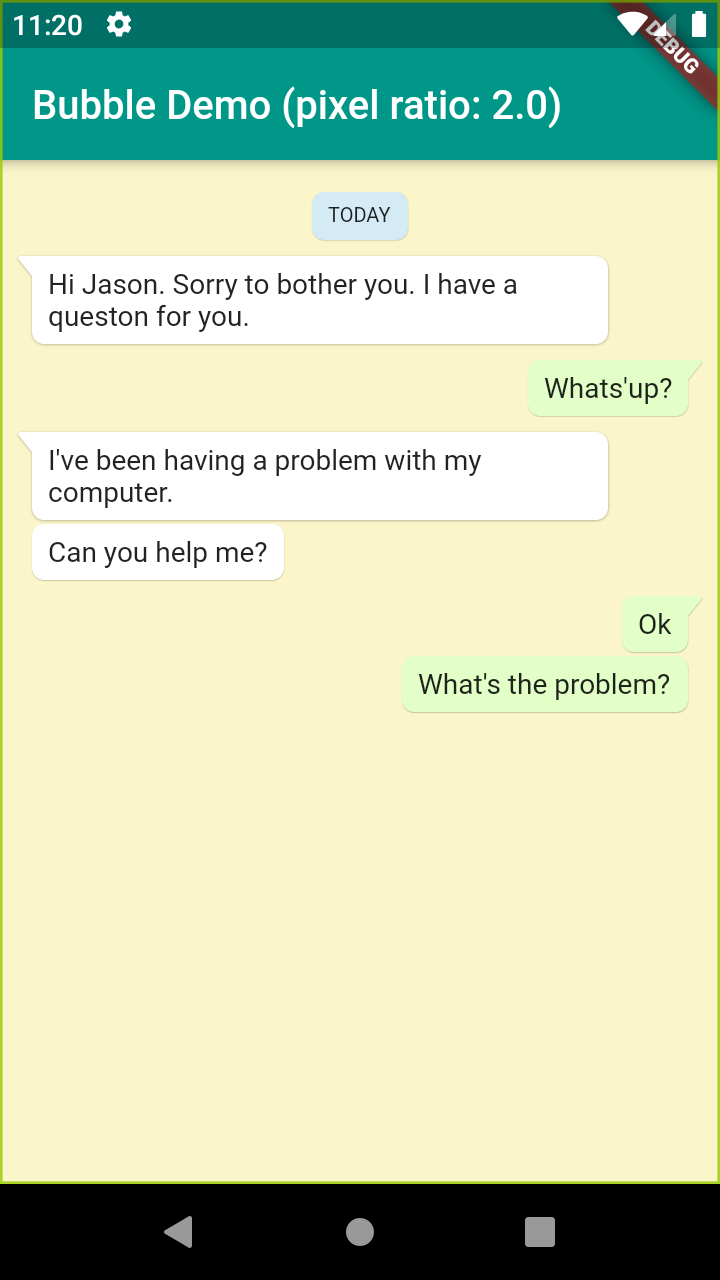
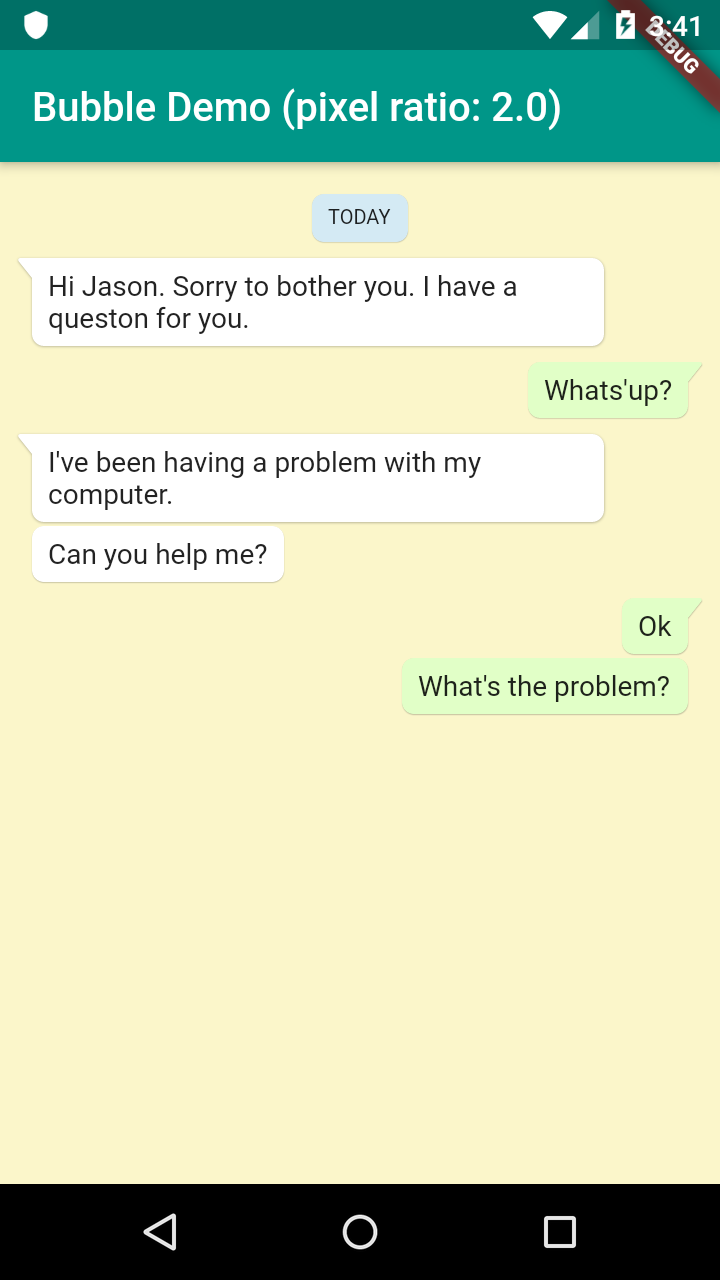
Additional properties similar to properties in `style`

diff --git a/lib/bubble.dart b/lib/bubble.dart
@@ -4,24 +4,60 @@ import 'dart:ui';
 import 'dart:math';
 import 'package:flutter/material.dart';
 
+enum BubbleNip { NO, TOP_LEFT, TOP_RIGHT }
 
-enum BubbleNip { TOP_LEFT, TOP_RIGHT }
+/// Class BubbleEdges is an analog of EdgeInsets, but default values are null.
+class BubbleEdges {
+  const BubbleEdges.fromLTRB(this.left, this.top, this.right, this.bottom);
 
+  const BubbleEdges.all(double value)
+      : left = value,
+        top = value,
+        right = value,
+        bottom = value;
+
+  const BubbleEdges.only({
+    this.left, // = null
+    this.top, // = null
+    this.right, // = null
+    this.bottom, // = null
+  });
+
+  const BubbleEdges.symmetric({
+    double vertical, // = null
+    double horizontal, // = null
+  })  : left = horizontal,
+        top = vertical,
+        right = horizontal,
+        bottom = vertical;
+
+  final double left;
+  final double top;
+  final double right;
+  final double bottom;
+
+  static get zero => BubbleEdges.all(0);
+
+  EdgeInsets get edgeInsets => EdgeInsets.fromLTRB(left ?? 0, top ?? 0, right ?? 0, bottom ?? 0);
+
+  @override
+  String toString() => 'BubbleEdges($left, $top, $right, $bottom)';
+}
 
 class BubbleStyle {
   const BubbleStyle({
-    this.radius = 6,
+    this.radius,
     this.nip,
-    this.nipWidth = 8,
-    this.nipHeight = 10,
-    this.nipRadius = 1,
-    this.nipOffset = 0,
-    this.showNip = true,
-    this.color = Colors.white,
-    this.elevation = 1.0,
-    this.shadowColor = Colors.black,
-    this.padding = const EdgeInsets.symmetric(horizontal: 8.0, vertical: 6.0),
-    this.margin = EdgeInsets.zero,
+    this.nipWidth,
+    this.nipHeight,
+    this.nipRadius,
+    this.nipOffset,
+    this.showNip,
+    this.color,
+    this.elevation,
+    this.shadowColor,
+    this.padding,
+    this.margin,
     this.alignment,
   });
 
@@ -35,23 +71,27 @@ class BubbleStyle {
   final Color color;
   final double elevation;
   final Color shadowColor;
-  final EdgeInsets padding;
-  final EdgeInsetsGeometry margin;
-  final AlignmentGeometry alignment;
+  final BubbleEdges padding;
+  final BubbleEdges margin;
+  final Alignment alignment;
 }
 
 class BubbleClipper extends CustomClipper<Path> {
   BubbleClipper(this.style)
-      : super() {
-    assert(style != null);
-    assert(style.nipWidth > 0.0);
-    assert(style.nipHeight > 0.0);
-    assert(style.nipRadius >= 0.0);
-    assert(style.nipRadius <= style.nipWidth / 2.0 && style.nipRadius <= style.nipHeight / 2.0);
-    assert(style.nipOffset >= 0.0);
-    assert(style.radius <= style.nipHeight + style.nipOffset);
-    assert(style.padding != null);
-
+      : assert(style != null),
+        assert(style != null),
+        assert(style.nipWidth > 0.0),
+        assert(style.nipHeight > 0.0),
+        assert(style.nipRadius >= 0.0),
+        assert(style.nipRadius <= style.nipWidth / 2.0 && style.nipRadius <= style.nipHeight / 2.0),
+        assert(style.nipOffset >= 0.0),
+        assert(style.radius <= style.nipHeight + style.nipOffset),
+        assert(style.padding != null),
+        assert(style.padding.left != null),
+        assert(style.padding.top != null),
+        assert(style.padding.right != null),
+        assert(style.padding.bottom != null),
+        super() {
     if (style.nip != null && style.nipRadius > 0) {
       var k = style.nipHeight / style.nipWidth;
       var a = atan(k);
@@ -145,8 +185,7 @@ class BubbleClipper extends CustomClipper<Path> {
         } else {
           path2.lineTo(size.width - nipPX, style.nipOffset + nipPY);
           path2.arcToPoint(Offset(size.width - nipCX, style.nipOffset),
-              radius: Radius.circular(style.nipRadius),
-              clockwise: false);
+              radius: Radius.circular(style.nipRadius), clockwise: false);
         }
         path2.close();
 
@@ -179,27 +218,63 @@ class BubbleClipper extends CustomClipper<Path> {
   bool shouldReclip(BubbleClipper oldClipper) => false;
 }
 
-
 class Bubble extends StatelessWidget {
-  Bubble({this.style = const BubbleStyle(), this.child})
-      : bubbleClipper = BubbleClipper(style);
+  Bubble({
+    this.child,
+    double radius,
+    BubbleNip nip,
+    double nipWidth,
+    double nipHeight,
+    double nipRadius,
+    double nipOffset,
+    bool showNip,
+    Color color,
+    double elevation,
+    Color shadowColor,
+    BubbleEdges padding,
+    BubbleEdges margin,
+    Alignment alignment,
+    BubbleStyle style,
+  }) : bubbleClipper = BubbleClipper(BubbleStyle(
+          radius: radius ?? style?.radius ?? 6,
+          nip: nip ?? style?.nip ?? BubbleNip.NO,
+          nipWidth: nipWidth ?? style?.nipWidth ?? 8,
+          nipHeight: nipHeight ?? style?.nipHeight ?? 10,
+          nipRadius: nipRadius ?? style?.nipRadius ?? 1,
+          nipOffset: nipOffset ?? style?.nipOffset ?? 0,
+          showNip: showNip ?? style?.showNip ?? true,
+          color: color ?? style?.color ?? Colors.white,
+          elevation: elevation ?? style?.elevation ?? 1.0,
+          shadowColor: shadowColor ?? style?.shadowColor ?? Colors.black,
+          padding: BubbleEdges.only(
+            left: padding?.left ?? style?.padding?.left ?? 8,
+            top: padding?.top ?? style?.padding?.top ?? 6,
+            right: padding?.right ?? style?.padding?.right ?? 8,
+            bottom: padding?.bottom ?? style?.padding?.bottom ?? 6,
+          ),
+          margin: BubbleEdges.only(
+            left: margin?.left ?? style?.margin?.left ?? 0,
+            top: margin?.top ?? style?.margin?.top ?? 0,
+            right: margin?.right ?? style?.margin?.right ?? 0,
+            bottom: margin?.bottom ?? style?.margin?.bottom ?? 0,
+          ),
+          alignment: alignment ?? style?.alignment ?? Alignment.center,
+        ));
 
-  final BubbleClipper bubbleClipper;
-  final BubbleStyle style;
   final Widget child;
+  final BubbleClipper bubbleClipper;
 
   Widget build(context) {
     return Container(
-      alignment: style.alignment,
-      margin: style.margin,
-      child: PhysicalShape(
-        clipBehavior: Clip.antiAliasWithSaveLayer,
-        clipper: bubbleClipper,
-        child: Container(padding: bubbleClipper.edgeInsets, child: child),
-        color: style.color,
-        elevation: style.elevation,
-        shadowColor: style.shadowColor,
-      )
-    );
+        alignment: bubbleClipper.style.alignment,
+        margin: bubbleClipper.style.margin?.edgeInsets,
+        child: PhysicalShape(
+          clipBehavior: Clip.antiAliasWithSaveLayer,
+          clipper: bubbleClipper,
+          child: Container(padding: bubbleClipper.edgeInsets, child: child),
+          color: bubbleClipper.style.color,
+          elevation: bubbleClipper.style.elevation,
+          shadowColor: bubbleClipper.style.shadowColor,
+        ));
   }
 }

diff --git a/example/lib/main.dart b/example/lib/main.dart
@@ -30,40 +30,18 @@ class _MyHomePageState extends State<MyHomePage> {
     double pixelRatio = MediaQuery.of(context).devicePixelRatio;
     double px = 1 / pixelRatio;
 
-    BubbleStyle styleCaption = BubbleStyle(
-      color: Color.fromARGB(255, 212, 234, 244),
-      elevation: 1 * px,
-      margin: EdgeInsets.only(top: 8),
-      alignment: Alignment.topCenter,
-    );
     BubbleStyle styleSomebody = BubbleStyle(
       nip: BubbleNip.TOP_LEFT,
       color: Colors.white,
       elevation: 1 * px,
-      margin: EdgeInsets.only(top: 8, right: 48),
-      alignment: Alignment.topLeft,
-    );
-    BubbleStyle styleSomebodyNext = BubbleStyle(
-      nip: BubbleNip.TOP_LEFT,
-      showNip: false,
-      color: Colors.white,
-      elevation: 1 * px,
-      margin: EdgeInsets.only(top: 2, right: 48),
+      margin: BubbleEdges.only(top: 8, right: 50),
       alignment: Alignment.topLeft,
     );
     BubbleStyle styleMe = BubbleStyle(
       nip: BubbleNip.TOP_RIGHT,
       color: Color.fromARGB(255, 225, 255, 199),
       elevation: 1 * px,
-      margin: EdgeInsets.only(top: 8, left: 48),
-      alignment: Alignment.topRight,
-    );
-    BubbleStyle styleMeNext = BubbleStyle(
-      nip: BubbleNip.TOP_RIGHT,
-      showNip: false,
-      color: Color.fromARGB(255, 225, 255, 199),
-      elevation: 1 * px,
-      margin: EdgeInsets.only(top: 2, left: 48),
+      margin: BubbleEdges.only(top: 8, left: 50),
       alignment: Alignment.topRight,
     );
 
@@ -77,7 +55,9 @@ class _MyHomePageState extends State<MyHomePage> {
           padding: EdgeInsets.all(8),
           children: [
             Bubble(
-              style: styleCaption,
+              color: Color.fromARGB(255, 212, 234, 244),
+              elevation: 1 * px,
+              margin: BubbleEdges.only(top: 8),
               child: Text('TODAY', style: TextStyle(fontSize: 10)),
             ),
             Bubble(
@@ -93,7 +73,9 @@ class _MyHomePageState extends State<MyHomePage> {
               child: Text('I\'ve been having a problem with my computer.'),
             ),
             Bubble(
-              style: styleSomebodyNext,
+              style: styleSomebody,
+              margin: BubbleEdges.only(top: 2),
+              showNip: false,
               child: Text('Can you help me?'),
             ),
             Bubble(
@@ -101,7 +83,9 @@ class _MyHomePageState extends State<MyHomePage> {
               child: Text('Ok'),
             ),
             Bubble(
-              style: styleMeNext,
+              style: styleMe,
+              showNip: false,
+              margin: BubbleEdges.only(top: 2),
               child: Text('What\'s the problem?'),
             ),
           ],

diff --git a/CHANGELOG.md b/CHANGELOG.md
@@ -1,72 +1,22 @@
-## [1.1.6] 2019-07-31.
+## 1.1.7 (2019-08-05)
 
-* Changes in README.md.
-* Added a scheme of nip to README.md.
+* Added additional properties similar to properties in `style`. They are priority.
+* EdgeInsets replaced by class BubbleEdges. It similar to EdgeInsets, but default values are null. Thus,
+  `padding: BubbleEdges.only(top: 2)` will only replace `padding.top` without affecting `left`, `right` and `bottom`.
 
-## [1.1.5] 2019-07-30.
+## 1.1.6 (2019-07-31)
 
-* Changes in README.md.
+* Wrote README.md.
+* Made screenshots.
 
-## [1.1.4] 2019-07-30.
-
-* Changes in README.md.
-
-## [1.1.3] 2019-07-30.
-
-* Changes in README.md.
-
-## [1.1.2] 2019-07-30.
-
-* Fix the example and screenshot.
-
-## [1.1.1] 2019-07-30.
-
-* Changes in the example: elevation = 1 px.
-
-## [1.1.0] 2019-07-30.
-
-* Moved all properties to property 'style'.
-
-## [1.0.5] 2019-07-29.
-
-* Wrapped widget in Container. Added property 'alignment'.
-
-## [1.0.4] 2019-07-29.
-
-* Fix in README.md.
-
-## [1.0.3] 2019-07-29.
-
-* Changes in example.
-
-## [1.0.2] 2019-07-29.
-
-* BubbleSource source to BubbleNip nip.
-
-## [1.0.1] 2019-07-29.
+## 1.0.1 (2019-07-29)
 
 * Added an example.
 
-## [0.1.4] 2019-07-29.
+## 0.1.0 (2019-07-29)
 
-* Added an example.
+* Published on https://pub.dev/.
 
-## [0.1.3] 2019-07-29.
-
-* Problem #2 with nipRadius.
-
-## [0.1.2] 2019-07-29.
-
-* Problem with nipRadius.
-
-## [0.1.1] 2019-07-29.
-
-* Small features.
-
-## [0.1.0] 2019-07-29.
-
-* Ready for using from https://pub.dev/.
-
-## [0.0.1] 2019-07-27.
+## 0.0.1 (2019-07-27)
 
 * First release.

diff --git a/README.md b/README.md
@@ -25,16 +25,12 @@ Bubble(
 
 ```dart
 Bubble(
-  style: BubbleStyle(
-    nip: BubbleNip.TOP_RIGHT,
-  ),
+  nip: BubbleNip.TOP_RIGHT,
   child: Text('Hello, world!'),
 ),
 Bubble(
-  style: BubbleStyle(
-    margin: EdgeInsets.only(top: 10),
-    nip: BubbleNip.TOP_LEFT,
-  ),
+  margin: EdgeInsets.only(top: 10),
+  nip: BubbleNip.TOP_LEFT,
   child: Text('Hello, programmer!'),
 ),
 ```
